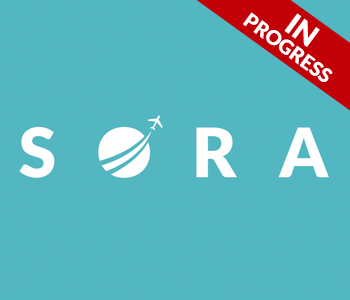
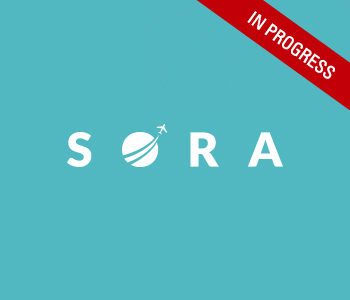
image, alignment changes

diff --git a/css/styles.css b/css/styles.css
@@ -37,7 +37,7 @@ header li.active {
 .big img{
 	width: auto;
 	height: 75px;	
-	margin-top: -9px;
+	margin-top: -8px;
 }
 
 .big li{
@@ -225,11 +225,11 @@ body {
 
 
 #portnav{
-	padding: 40px 0px 20px 0px;
+	padding: 30px 0px 10px 0px;
 	text-transform: uppercase;
 	letter-spacing: 1px;
 	text-align: center;
-	font-size: 18px;
+	font-size: 14px;
 	font-weight: bold;
 	line-height: 64px;
 	}
@@ -294,7 +294,7 @@ html[xmlns] .clearfix { display: block; }
 .psotitle { margin-top: -160px; margin-bottom: 30px; margin-left: 180px; }
 	.big { height: 54px; }
 	.small { height: 54px; }
-	header.big img { height: 40px; width: auto; }	
+	header.big img { height: 39px; width: auto; }	
 	header.big li { margin-top: 0px; background: #ffffff; padding: 0px 0px 0px 30px; }	
 	header.small li {	margin-top: 0px; background: #ffffff; padding: 0px 0px 0px 30px;	}	
 	

diff --git a/pt-robots/index.html b/pt-robots/index.html
@@ -24,7 +24,17 @@
 		}
 	
 		@media screen and (max-width: 767px){
-		.headerimg {margin-top:26px !important;}
+		.headerimg {margin-top:0px !important;}
+		}
+		
+		@media screen and (max-width: 536px){
+		h1 {font-size: 34px;}
+		}
+		
+		@media screen and (max-width: 330px){
+		.headerimg {margin-top:-10px !important;}
+		h1 {font-size: 30px;}
+		
 		}
 	</style>
 </head>
@@ -39,7 +49,7 @@
 	<div class="container" style="text-align: center;">
 		<img class="headerimg" src="../thumbnails/ptrobots_thumb.jpg" style="margin-top: 16px;" height="200px" width="auto">
 		<br>
-		<h1 style="color: #0b497d; margin-top: -10px;">Robot & PT Patient
+		<h1 style="color: #0b497d; margin-top: -22px;">Robot & PT Patient
 		Interactions</h1>
 		
 	</div>

diff --git a/urbanbite/index.html b/urbanbite/index.html
@@ -19,13 +19,13 @@
 	
 	<style type="text/css" media="all">
 		@media screen and (max-width: 991px){
-		.headerimg {margin-top:56px !important;}
+		.headerimg {margin-top:20px !important;}
 		h1 {font-size: 36px;}
 		h3 {font-size: 22px;}
 		}
 		
 		@media screen and (max-width: 767px){
-		.headerimg {margin-top:36px !important;}
+		.headerimg {margin-top:0px !important;}
 		}
 	</style>
 </head>

diff --git a/pso-memberships/index.html b/pso-memberships/index.html
@@ -27,6 +27,15 @@
 		@media screen and (max-width: 767px){
 		.headerimg {margin-top:36px !important;}
 		}
+		
+		@media screen and (max-width: 534px){
+		.headerimg {margin-top:16px !important;}
+		}
+		
+		@media screen and (max-width: 364px){
+		.headerimg {margin-top:26px !important;}
+		h1 {font-size: 30px;}
+		}
 	</style>
 </head>
 
